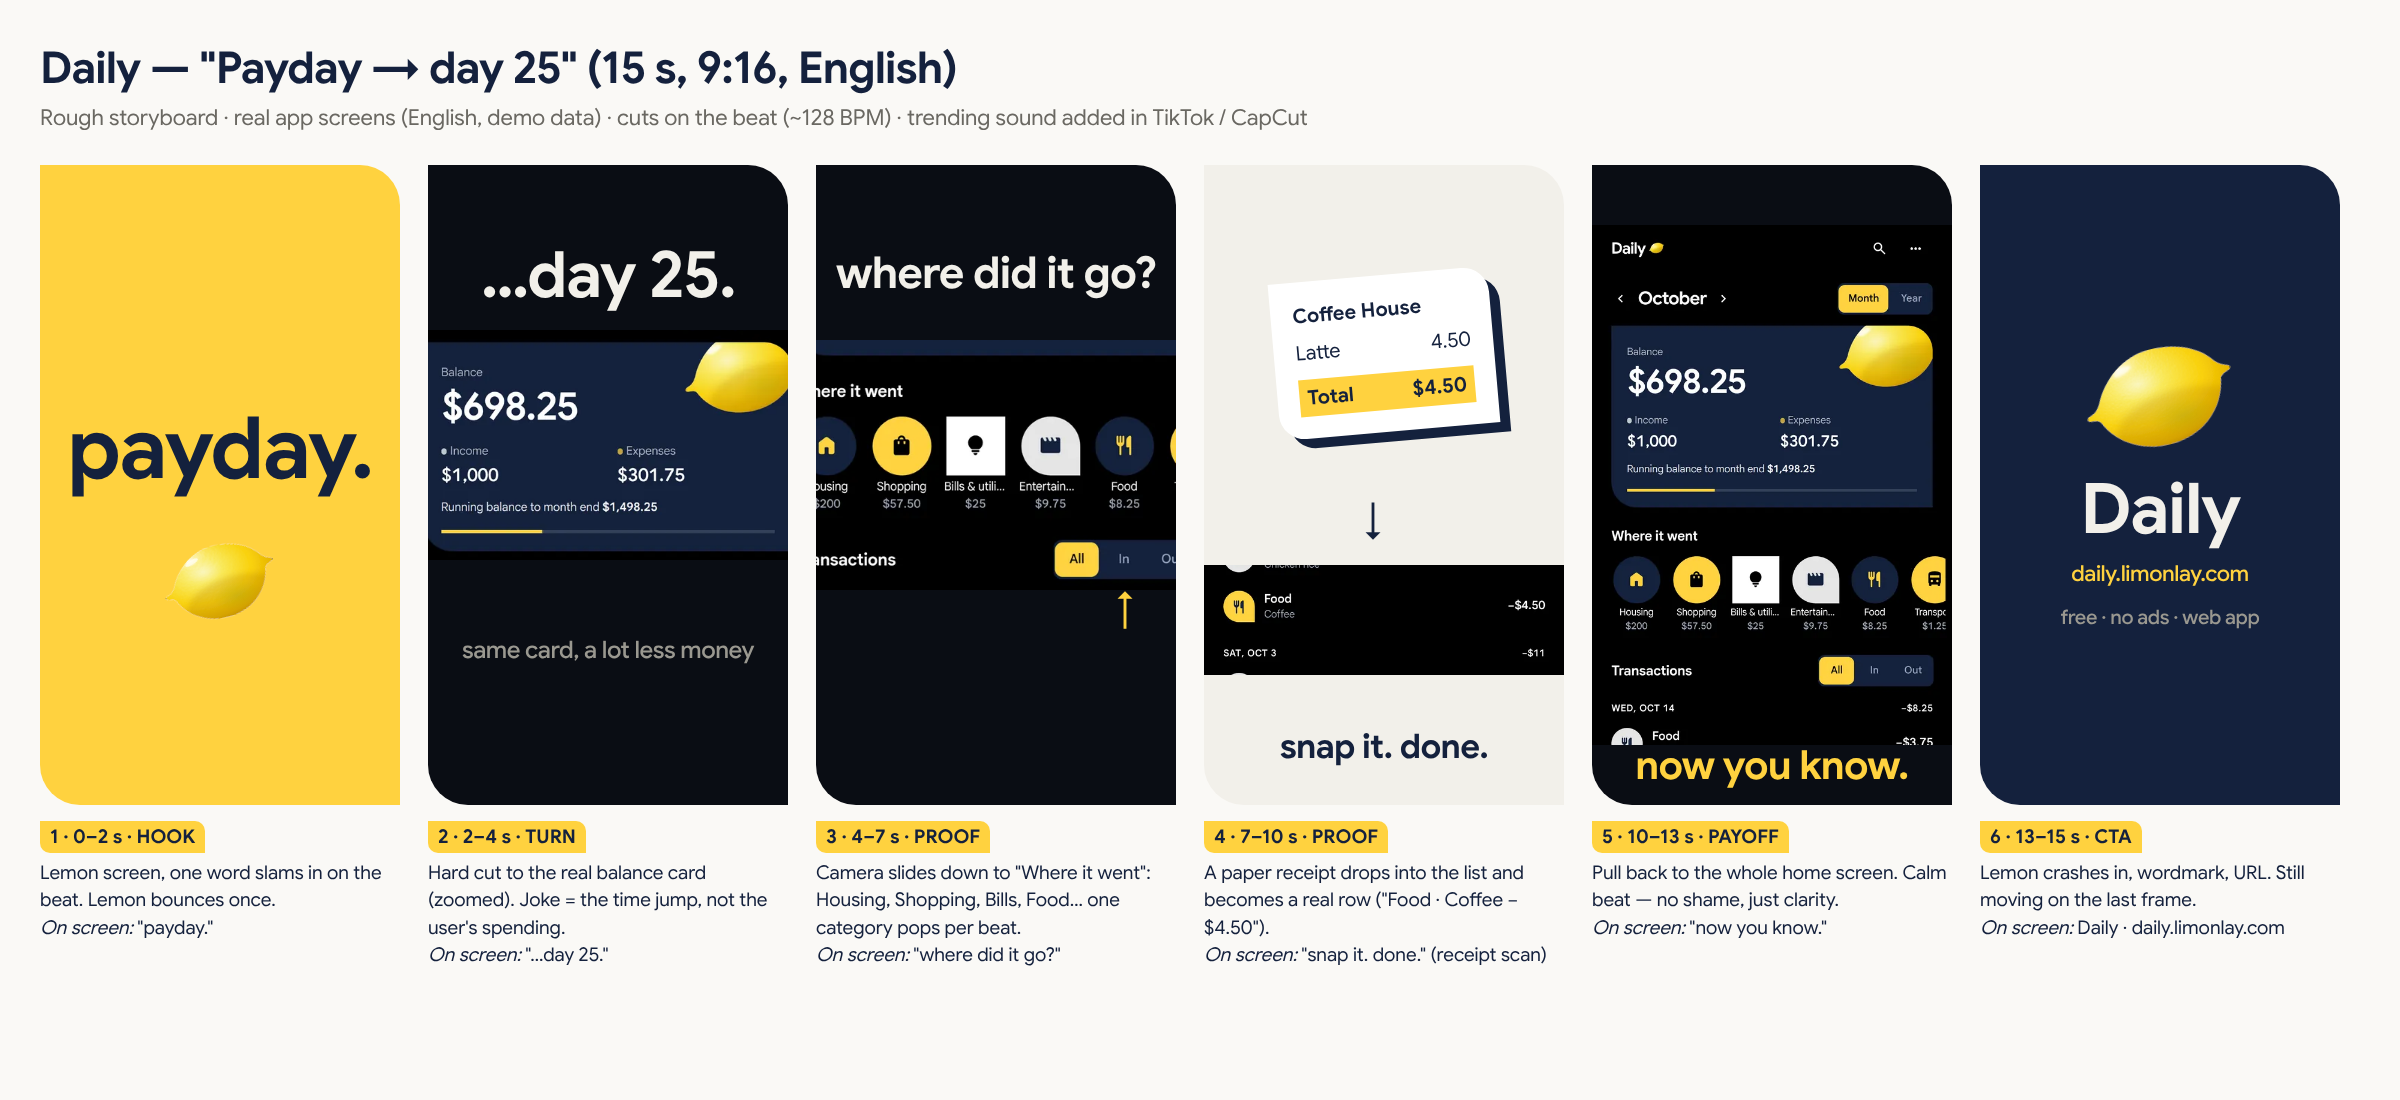
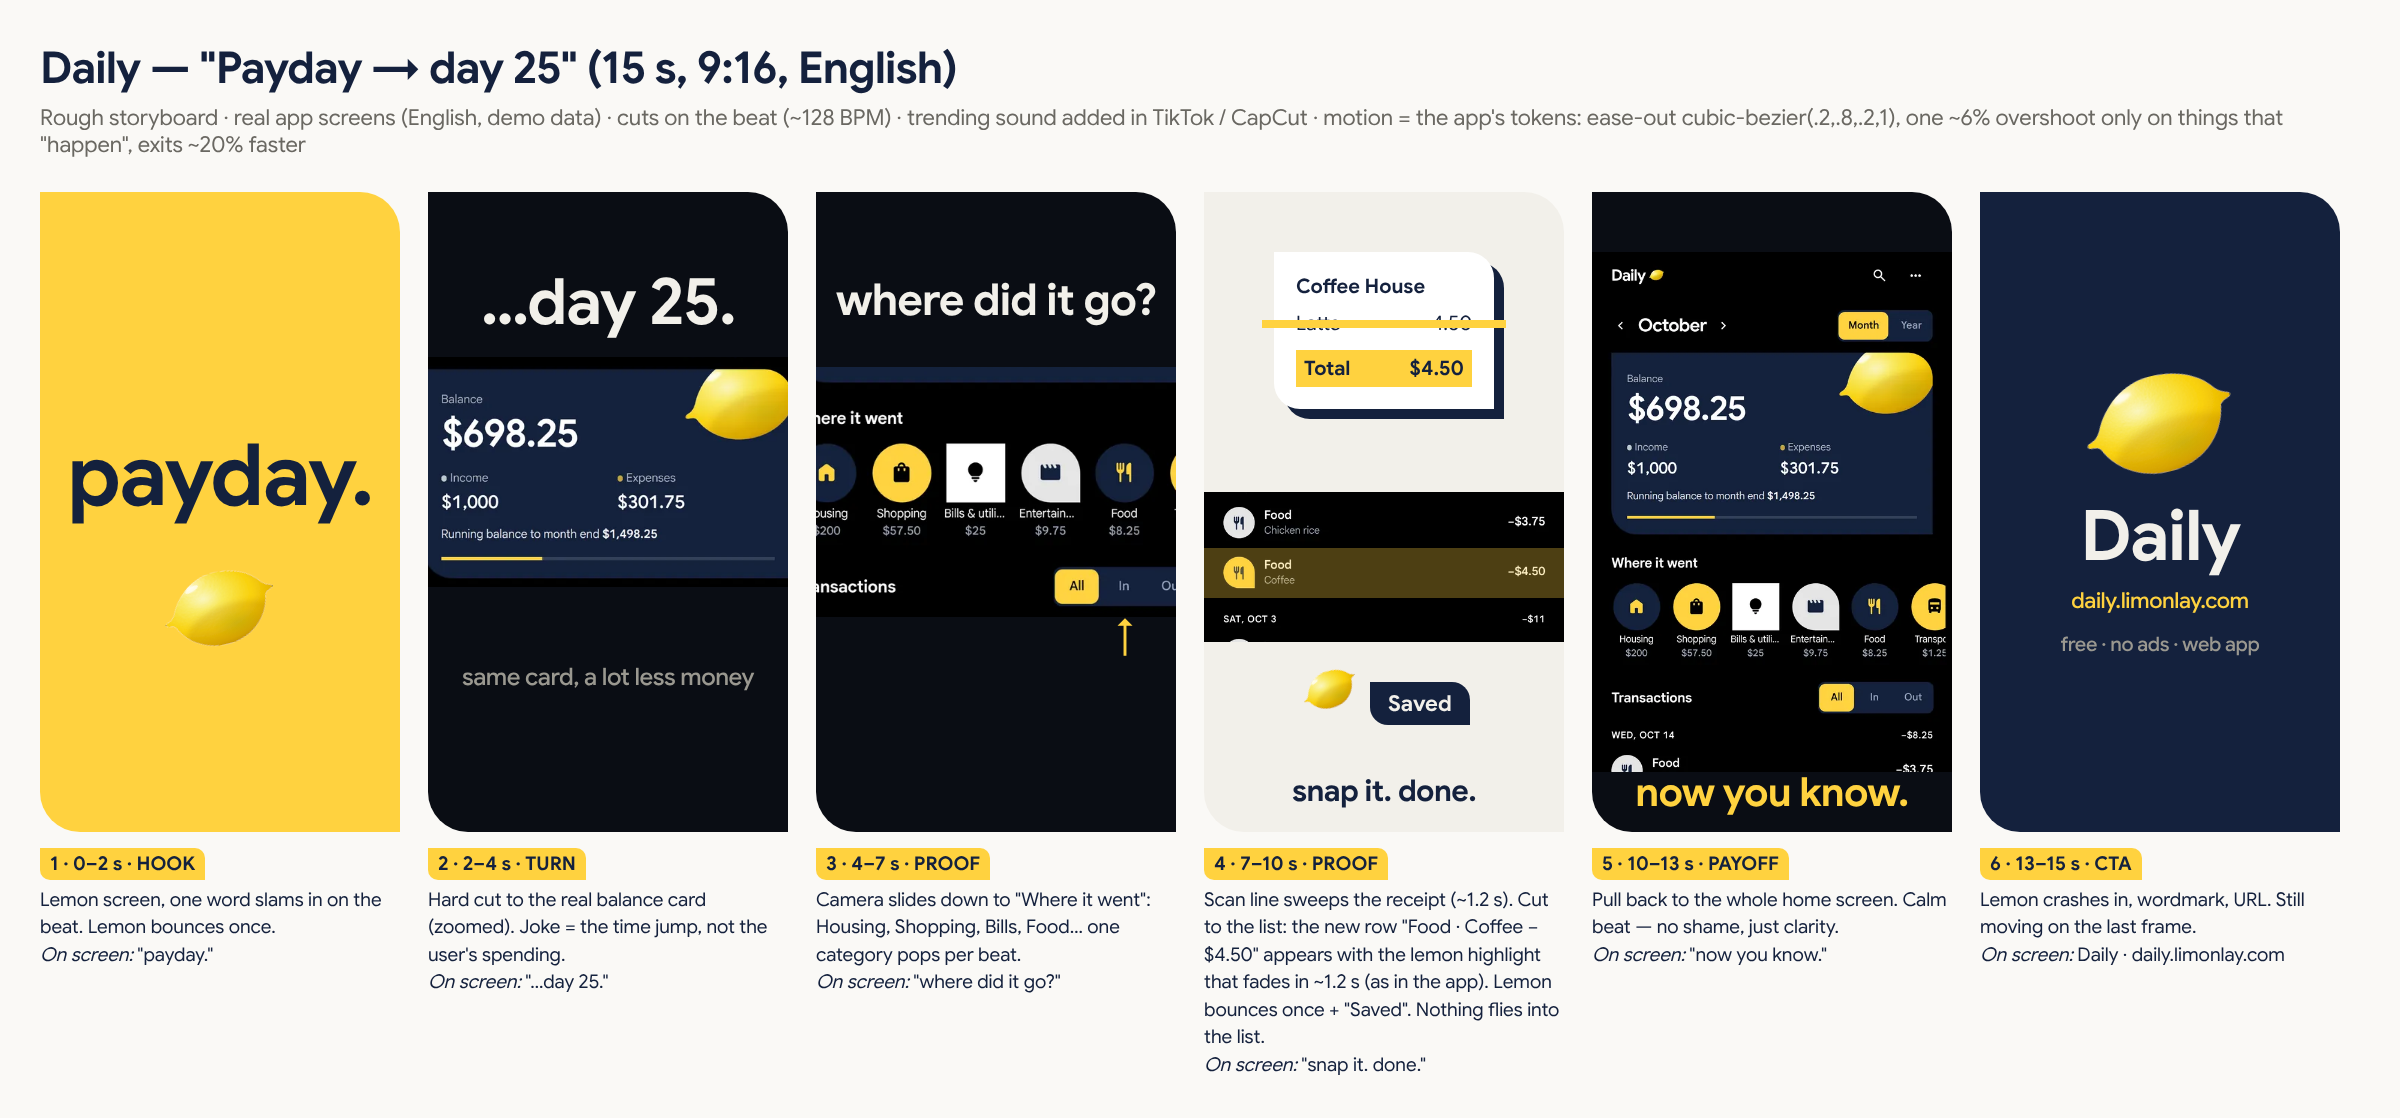
Storyboard payday-en: panel 4 follows DESIGN.md (no flying row, lemon highlight + Saved), app motion tokens
Claude-Session: https://claude.ai/code/session_016N5LdBU9yZ5tFhcrwC9g8M

diff --git a/films/payday-en/boards.html b/films/payday-en/boards.html
@@ -15,7 +15,7 @@ h1{font-size:44px;letter-spacing:-.02em}
 .arrow{position:absolute;font-size:40px;color:#14213d}
 </style></head><body>
 <h1>Daily — "Payday → day 25" (15 s, 9:16, English)</h1>
-<div class="sub">Rough storyboard · real app screens (English, demo data) · cuts on the beat (~128 BPM) · trending sound added in TikTok / CapCut</div>
+<div class="sub">Rough storyboard · real app screens (English, demo data) · cuts on the beat (~128 BPM) · trending sound added in TikTok / CapCut · motion = the app's tokens: ease-out cubic-bezier(.2,.8,.2,1), one ~6% overshoot only on things that "happen", exits ~20% faster</div>
 <div class="row">
 
 <div class="cell"><div class="f" style="background:#ffd23f">
@@ -36,13 +36,17 @@ h1{font-size:44px;letter-spacing:-.02em}
 </div><div class="cap"><b>3 · 4–7 s · PROOF</b><br>Camera slides down to "Where it went": Housing, Shopping, Bills, Food… one category pops per beat.<br><i>On screen:</i> "where did it go?"</div></div>
 
 <div class="cell"><div class="f" style="background:#f2f0ea">
-  <div style="position:absolute;left:70px;top:110px;width:220px;background:#fff;padding:22px;box-shadow:10px 10px 0 #14213d;border-radius:0 26px 0 26px;font-size:20px;transform:rotate(-5deg)">
+  <div style="position:absolute;left:70px;top:60px;width:220px;background:#fff;padding:22px;box-shadow:10px 10px 0 #14213d;border-radius:0 26px 0 26px;font-size:20px">
     <b>Coffee House</b><div style="display:flex;justify-content:space-between;margin-top:12px"><span>Latte</span><span>4.50</span></div>
     <div style="background:#ffd23f;margin-top:14px;padding:6px 8px;display:flex;justify-content:space-between;font-weight:700"><span>Total</span><span>$4.50</span></div></div>
-  <div class="arrow" style="left:160px;top:330px">↓</div>
-  <div class="crop" style="top:400px;height:110px;background-position:0 -527px;background-color:#000"></div>
-  <div class="t" style="top:560px;font-size:34px">snap it. done.</div>
-</div><div class="cap"><b>4 · 7–10 s · PROOF</b><br>A paper receipt drops into the list and becomes a real row ("Food · Coffee −$4.50").<br><i>On screen:</i> "snap it. done." (receipt scan)</div></div>
+  <div style="position:absolute;left:58px;top:128px;width:244px;height:8px;background:#ffd23f"></div>
+  <div style="position:absolute;left:0;top:300px;width:360px;height:150px;background:#000"></div>
+  <div class="crop" style="top:300px;height:150px;background-position:0 -488px"></div>
+  <div style="position:absolute;left:0;top:356px;width:360px;height:50px;background:#ffd23f;opacity:.3"></div>
+  <img src="lemon.svg" style="position:absolute;left:96px;top:480px;width:60px;transform:translateY(-6px) rotate(-8deg)">
+  <div style="position:absolute;left:166px;top:490px;background:#14213d;color:#f2f0ea;font-weight:700;font-size:22px;padding:8px 18px;border-radius:0 18px 0 18px">Saved</div>
+  <div class="t" style="top:580px;font-size:30px">snap it. done.</div>
+</div><div class="cap"><b>4 · 7–10 s · PROOF</b><br>Scan line sweeps the receipt (~1.2 s). Cut to the list: the new row "Food · Coffee −$4.50" appears with the lemon highlight that fades in ~1.2 s (as in the app). Lemon bounces once + "Saved". Nothing flies into the list.<br><i>On screen:</i> "snap it. done."</div></div>
 
 <div class="cell"><div class="f" style="background:#0a0d14">
   <div class="crop" style="top:60px;height:520px;background-position:0 0"></div>
